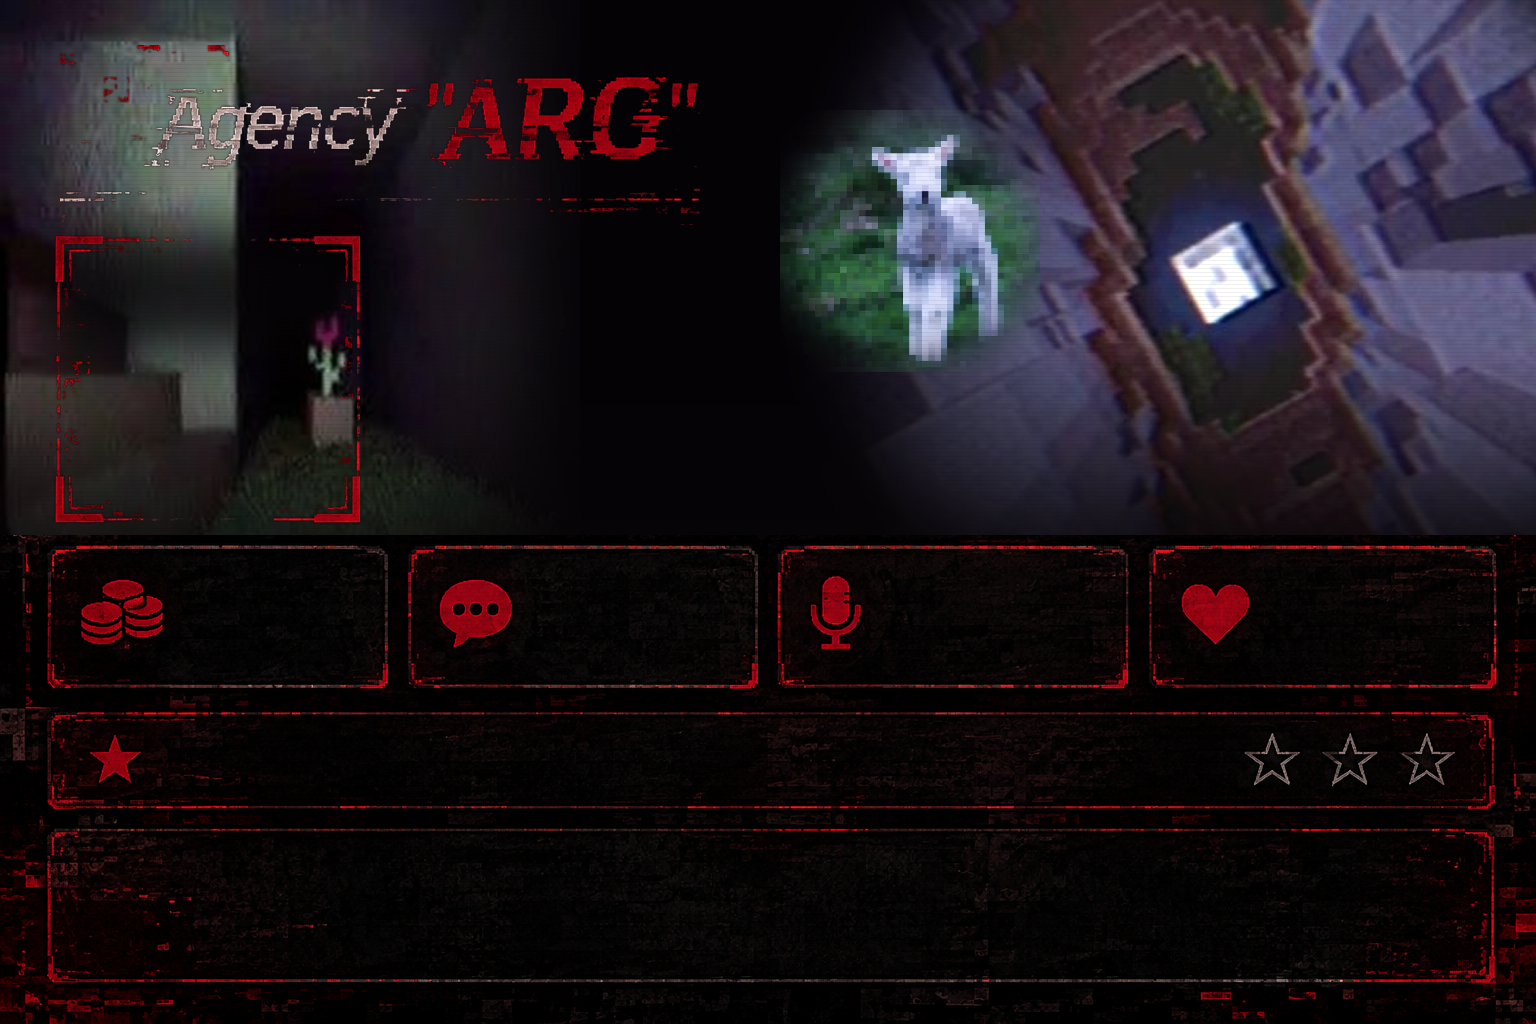
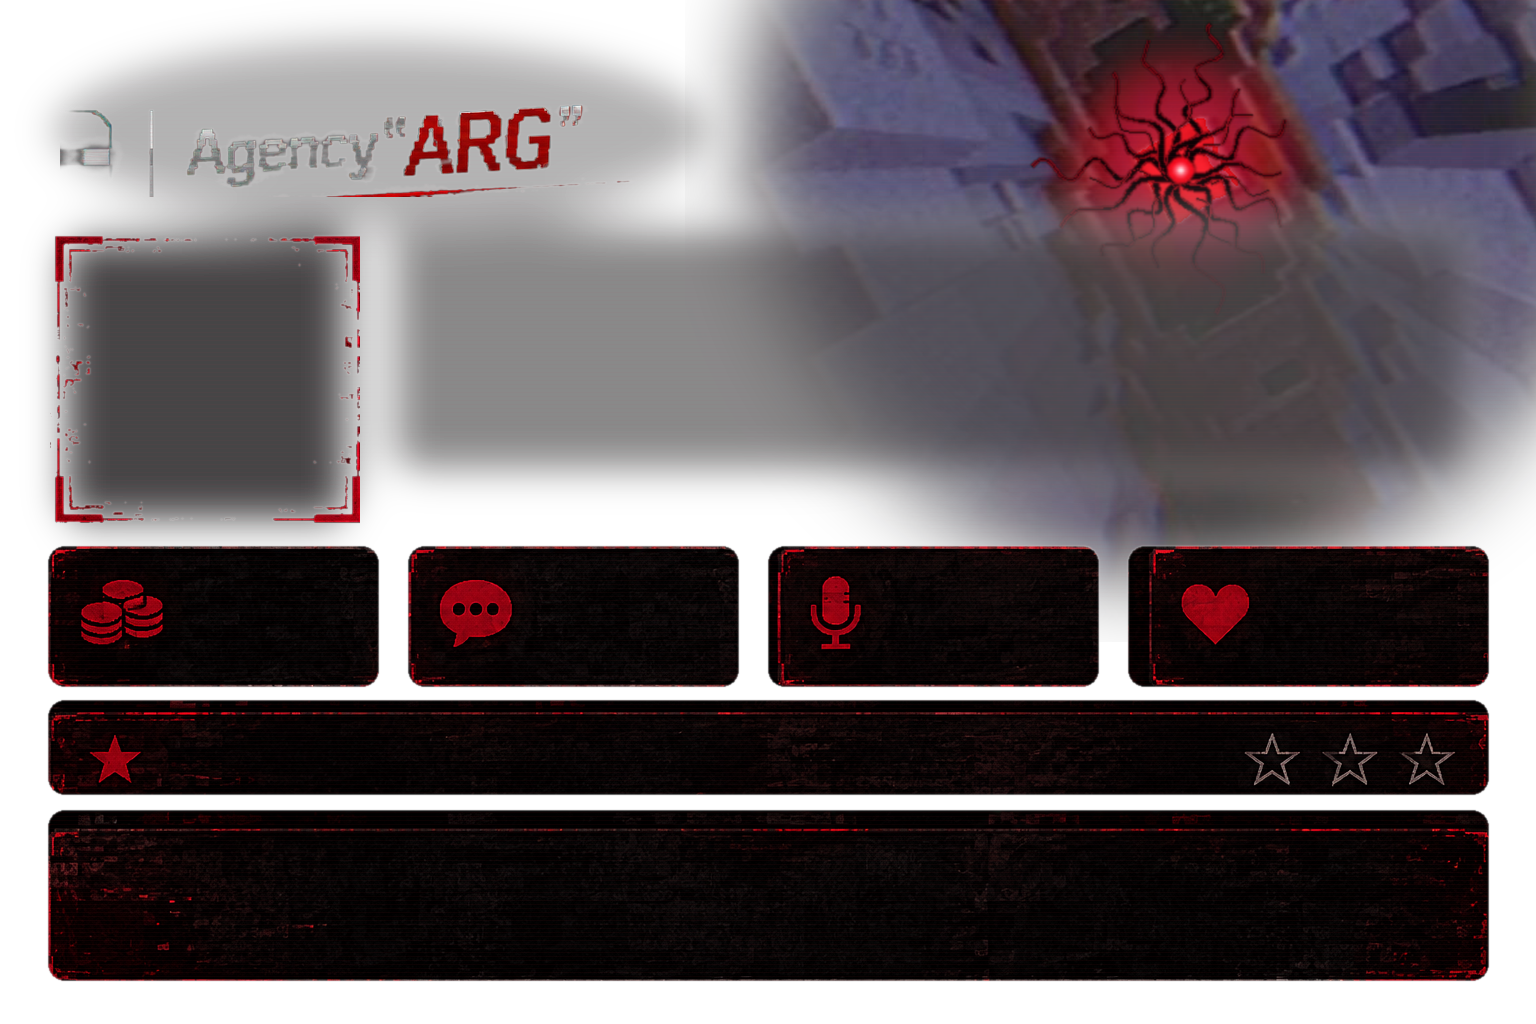
Update profile card: transparent background, ravine with red tentacle moon, remove profilebg

diff --git a/main.py b/main.py
@@ -895,29 +895,6 @@ def get_warnings(guild_id: int, user_id: int, limit: int = 10) -> tuple[int, lis
 
 
 
-def get_user_bg(user_id: int) -> str:
-    with _db_lock:
-        conn = _connect()
-        try:
-            row = conn.execute("SELECT profile_bg FROM user_settings WHERE user_id = ?", (user_id,)).fetchone()
-            return row[0] if row and row[0] else "bg_nil_tree"
-        finally:
-            conn.close()
-
-
-def set_user_bg(user_id: int, bg_name: str):
-    with _db_lock:
-        conn = _connect()
-        try:
-            with conn:
-                conn.execute("""
-                    INSERT INTO user_settings (user_id, profile_bg) VALUES (?, ?)
-                    ON CONFLICT(user_id) DO UPDATE SET profile_bg = ?
-                """, (user_id, bg_name, bg_name))
-        finally:
-            conn.close()
-
-
 def get_guild_afk_channel_id(guild_id: int) -> int:
     with _db_lock:
         conn = _connect()
@@ -1496,7 +1473,7 @@ def make_profile_card(
             txt(d, (S(78), S(888 + i * 36)), line_clean, f_line, color, anchor="lt")
 
     buf = io.BytesIO()
-    img.convert("RGB").save(buf, "PNG")
+    img.save(buf, "PNG")
     buf.seek(0)
     return buf
 
@@ -2602,30 +2579,6 @@ async def clearwarns_cmd(interaction: discord.Interaction, member: discord.Membe
 
 
 # ---------- КОМАНДЫ: КАСТОМИЗАЦИЯ И AFK НАСТРОЙКИ ----------
-@bot.tree.command(name="profilebg", description="🎨 Выбрать атмосферный стиль фона для карточки профиля")
-@app_commands.guild_only()
-@app_commands.describe(theme="Стиль фона")
-@app_commands.choices(theme=[
-    app_commands.Choice(name="Древо Безмолвия (NilSpace ARG - по умолчанию)", value="bg_nil_tree"),
-    app_commands.Choice(name="Бесконечные Колонны (NilSpace ARG)", value="bg_nil_pillars"),
-    app_commands.Choice(name="Монолиты Тумана (NilSpace ARG)", value="bg_nil_monolith"),
-    app_commands.Choice(name="Классический фон", value="default"),
-])
-async def profilebg_cmd(interaction: discord.Interaction, theme: app_commands.Choice[str]):
-    await asyncio.to_thread(set_user_bg, interaction.user.id, theme.value)
-    names = {
-        "bg_nil_tree": "🌲 Древо Безмолвия (NilSpace ARG)",
-        "bg_nil_pillars": "🏛 Бесконечные Колонны (NilSpace ARG)",
-        "bg_nil_monolith": "🌫 Монолиты Тумана (NilSpace ARG)",
-        "default": "🏙 Классический фон",
-    }
-    await interaction.response.send_message(
-        f"✅ Стиль фона профиля успешно изменён на: **{names.get(theme.value, theme.name)}**!\
-Посмотреть: `/profile`",
-        ephemeral=True
-    )
-
-
 @bot.tree.command(name="setafkchannel", description="👑 Установить голосовой AFK-канал для сервера (администраторы)")
 @app_commands.guild_only()
 @app_commands.default_permissions(administrator=True)
